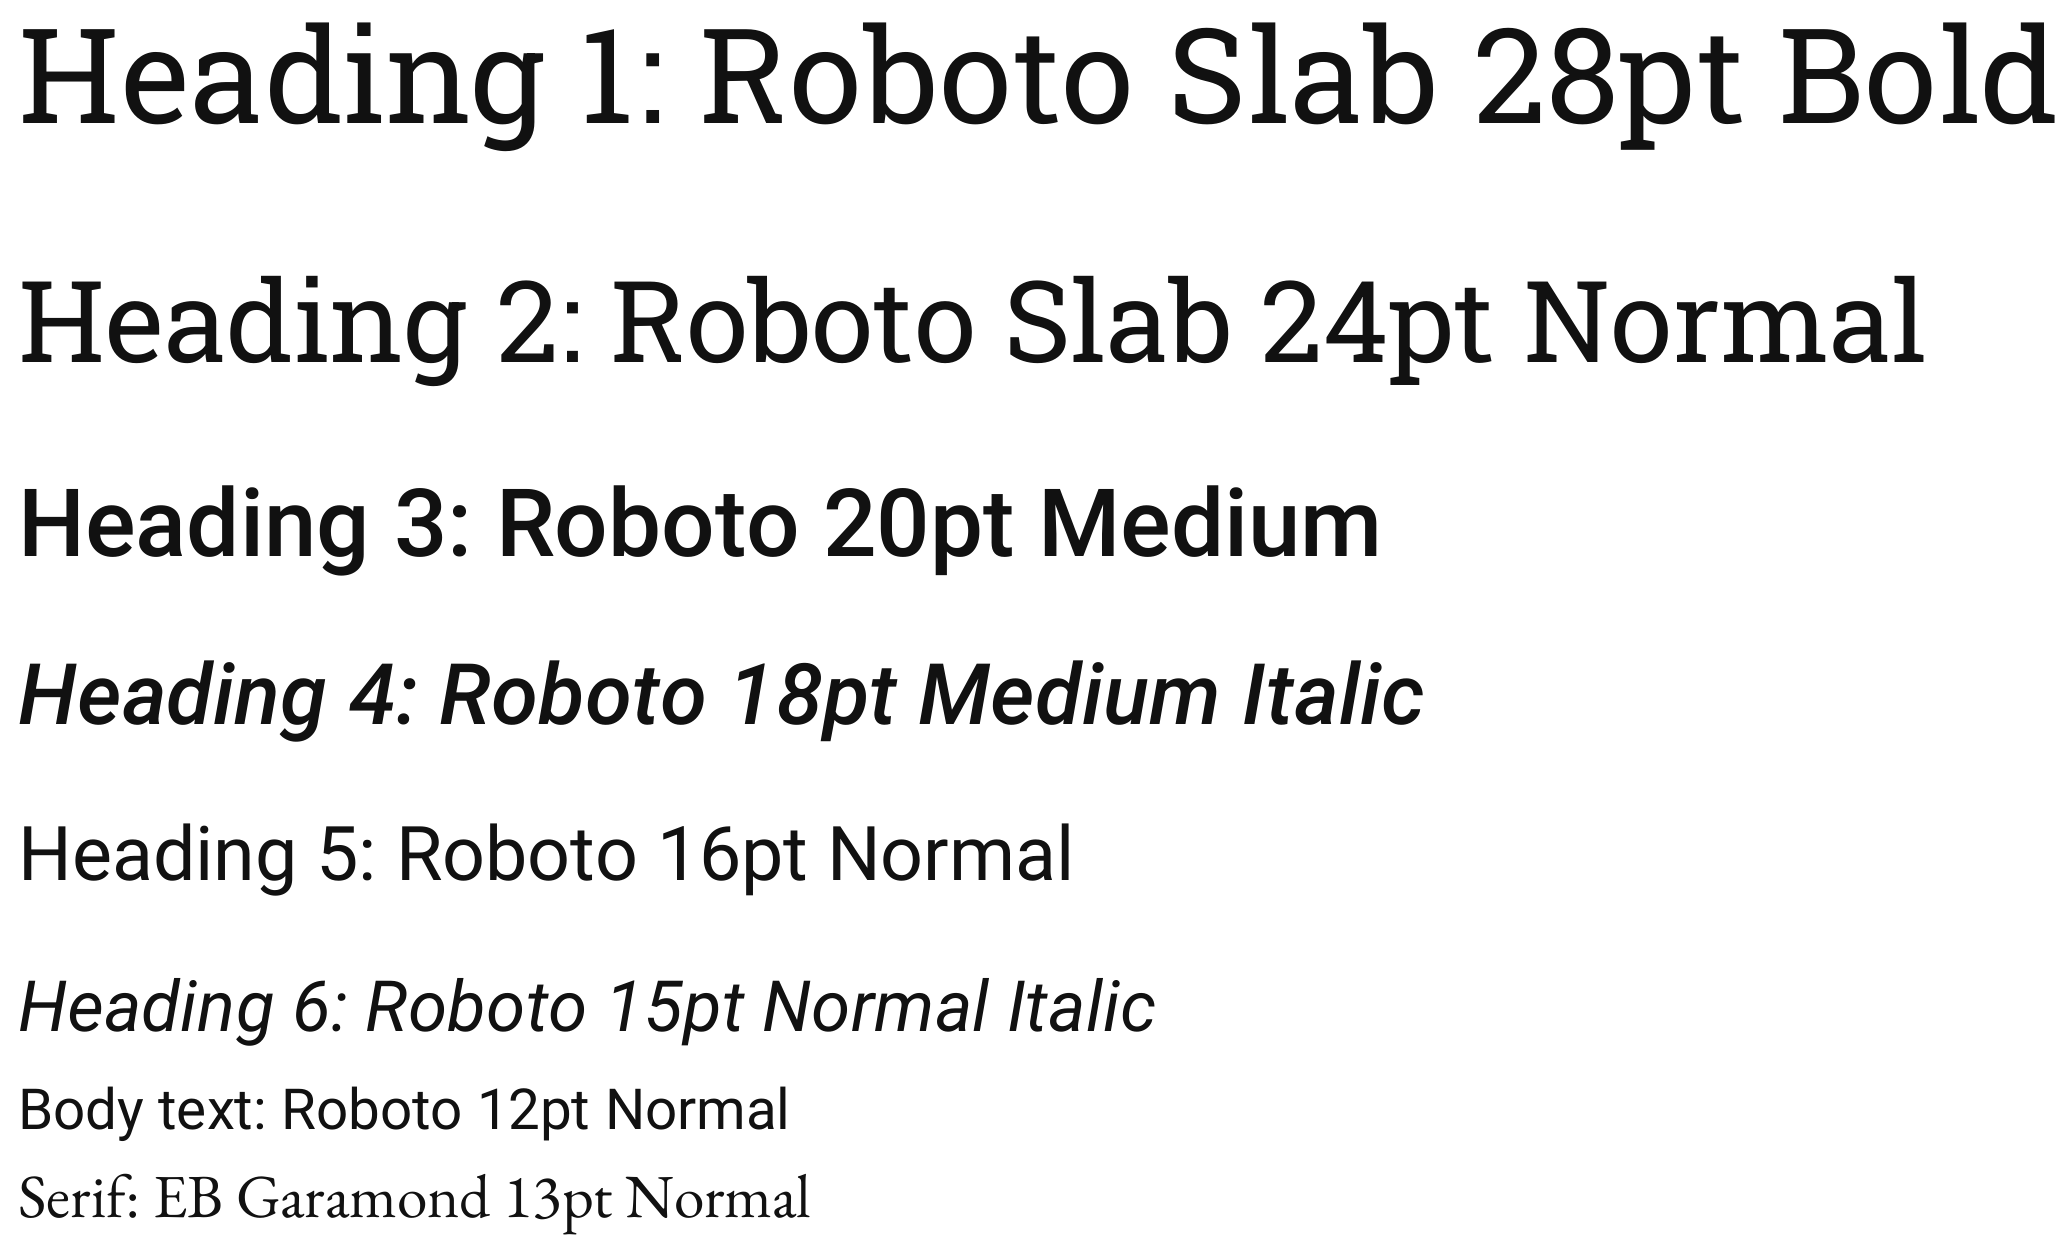
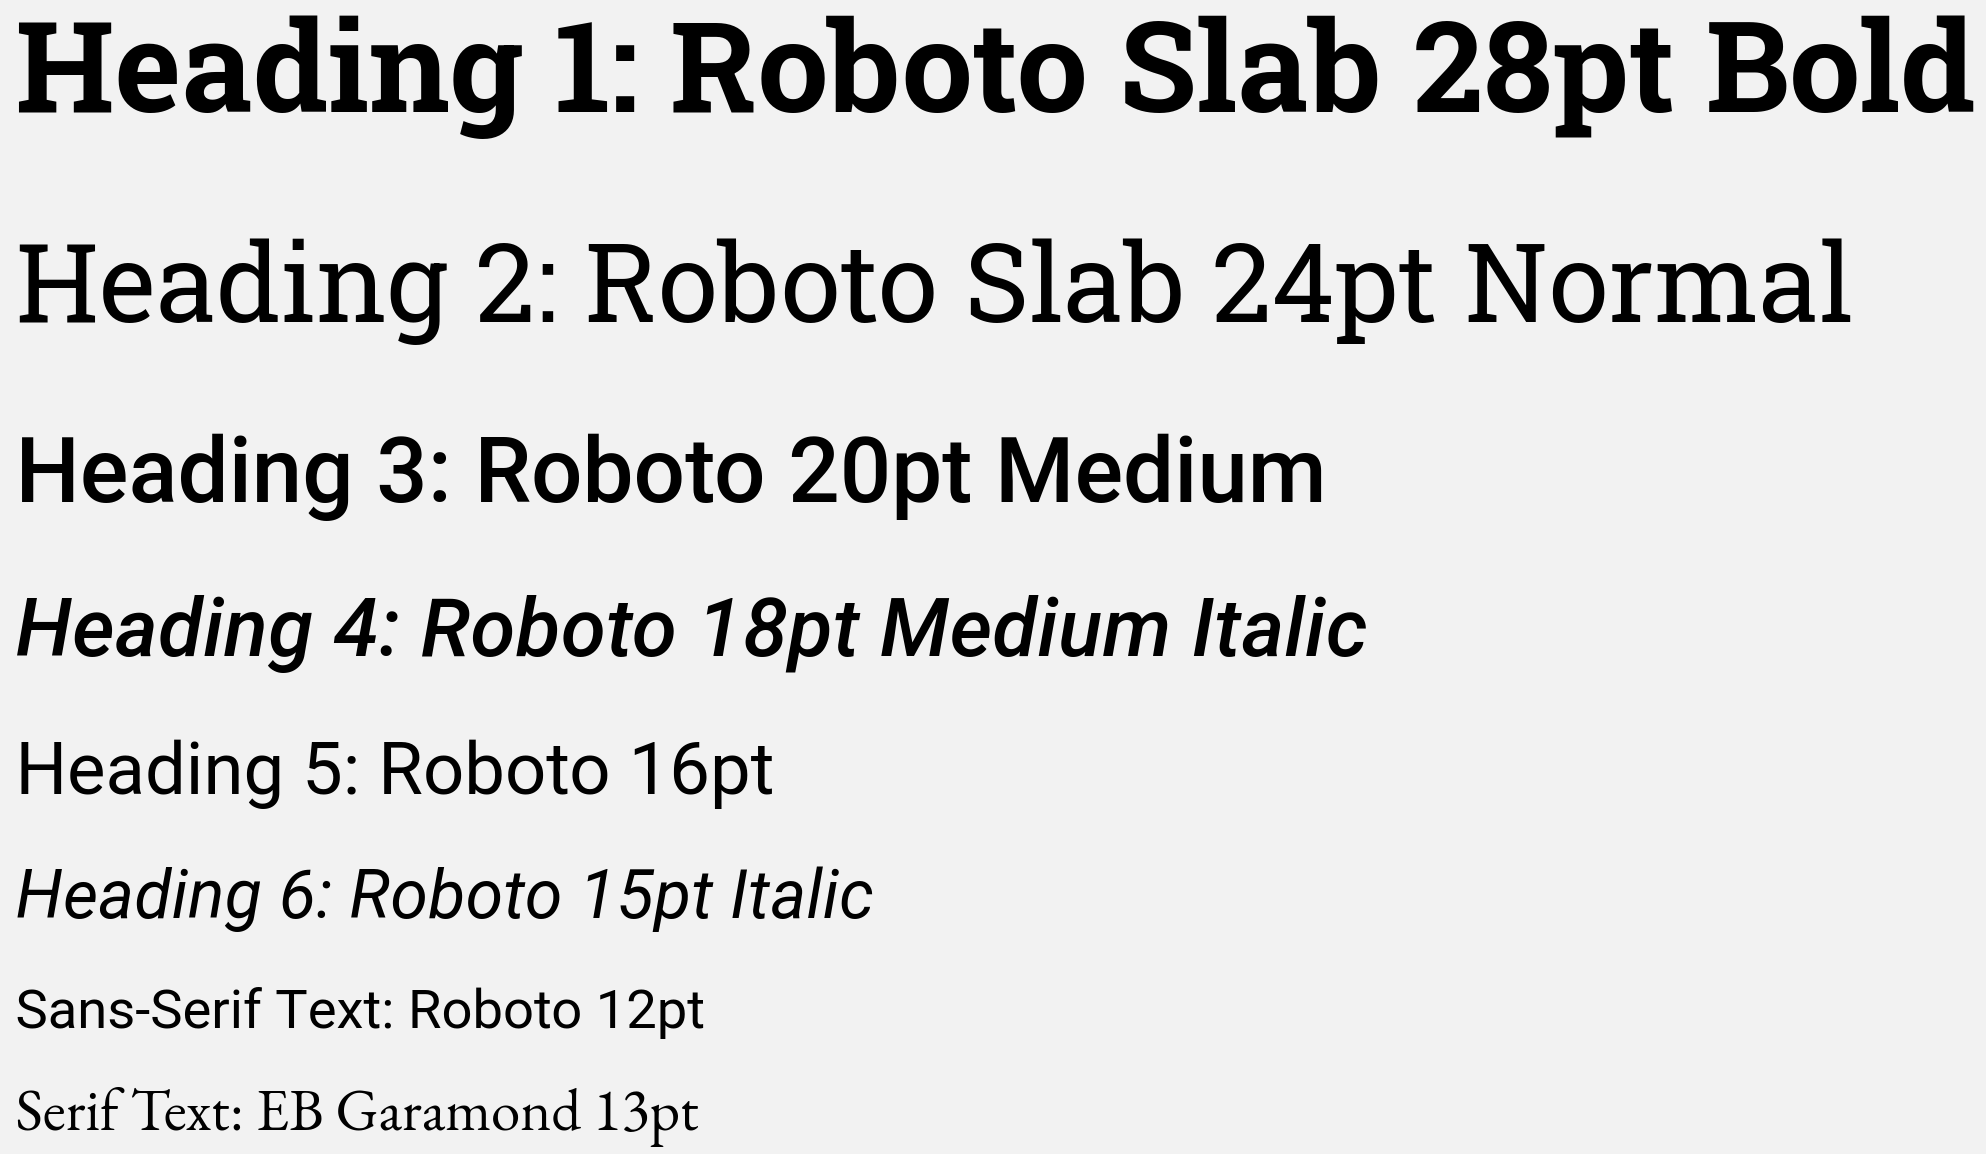
yay github pages site

diff --git a/styles.css b/styles.css
@@ -1,0 +1,129 @@
+@import url('https://fonts.googleapis.com/css?family=Roboto+Mono:500|Roboto+Slab:400,700|Roboto:400,400i,500,500i');
+
+/* overall */
+html {
+    height: 100%;
+}
+
+body {
+    font-family: 'Roboto', Helvetica, sans-serif;
+    font-size: 12pt;
+    background-color: #f2f2f2;
+    color: #121212;
+    height: 100%;
+    margin: 0;
+    text-align: center;
+}
+
+h1 {
+    font-family: 'Roboto Slab', Helvetica, sans-serif;
+    font-size: 28pt;
+    font-weight: 800;
+}
+
+h2 {
+    font-family: 'Roboto Slab', Helvetica, sans-serif;
+    font-size: 24pt;
+    font-weight: 400;
+}
+
+h3 {
+    font-family: 'Roboto', Helvetica, sans-serif;
+    font-size: 20pt;
+    font-weight: 500;
+}
+
+h4 {
+    font-family: 'Roboto', Helvetica, sans-serif;
+    font-size: 18pt;
+    font-weight: 500;
+    font-style: italic;
+    margin: 0;
+}
+
+h5 {
+    font-family: 'Roboto', Helvetica, sans-serif;
+    font-size: 15pt;
+    font-weight: 400;
+}
+
+h6 {
+    font-family: 'Roboto', Helvetica, sans-serif;
+    font-size: 15pt;
+    font-weight: 400;
+    font-style: italic;
+}
+
+img {
+    max-width: 80%;
+}
+
+#type {
+    width: 50%;
+}
+
+table {
+    border: 0;
+    border-spacing: 10px;
+    text-align: center;
+    margin-left: auto;
+    margin-right: auto;
+}
+
+#colours td {
+    padding: 15px;
+}
+
+ul {
+    list-style-type: none;
+    margin: 0;
+    padding: 0;
+}
+
+/* logo */
+#logo-container {
+    text-align: center;
+    padding-top: 2%;
+    margin-left: auto;
+    margin-right: auto;
+}
+
+#logo {
+    width: 20%;
+    max-width: 256px;
+}
+
+.container {
+    padding: 2%;
+}
+
+/* link */
+a:link {
+    color: #3d69de;
+    text-decoration: none;
+}
+
+a:visited {
+    color: #7415e3;
+    text-decoration: none;
+}
+
+a:hover, a:visited:hover {
+    text-decoration: underline;
+}
+
+a:active {
+    text-decoration: underline;
+}
+
+/* responsivity */
+@media only screen and (max-width: 768px) {
+    #logo {
+        width: auto;
+        height: 128px;
+    }
+
+    #type {
+        width: 80%;
+    }
+}

diff --git a/_layouts/default.html b/_layouts/default.html
@@ -1,0 +1,28 @@
+<!DOCTYPE html>
+<html lang="en">
+    <head>
+        <meta charset="utf-8" />
+        <meta content="width=device-width, initial-scale=1" name="viewport" />
+
+        <title>{{ site.title }}</title>
+
+        <link rel="stylesheet" href="styles.css" type="text/css">
+
+        <link rel="shortcut icon" type="image/x-icon" href="favicon/favicon.ico">
+        <link rel="apple-touch-icon" sizes="180x180" href="favicon/apple-touch-icon.png">
+        <link rel="icon" type="image/png" sizes="32x32" href="favicon/favicon-32x32.png">
+        <link rel="icon" type="image/png" sizes="16x16" href="favicon/favicon-16x16.png">
+        <link rel="manifest" href="favicon/site.webmanifest">
+    </head>
+    <body>
+        <div id="logo-container">
+            <a href="{{ site.home_url }}">
+                <img id="logo" src="{{ site.logo_url }}" alt="Logo">
+            </a>
+        </div>
+
+        <div class="container">
+            {{ content }}
+        </div>
+    </body>
+</html>

diff --git a/index.md b/index.md
@@ -1,81 +1,77 @@
+---
+permalink: /
+layout: default
+---
+
 # YARC Branding
 
 ## Typography
 
-![Type](img/type.png)
+<img id="type" src="img/type.png" alt="typography">
 
 ## Colours
 
 Use these colours whenever possible.
 
-<table>
+<table id="colours">
     <tr>
-        <td>
-            <b>Primary</b> <br>
+        <td style="background: url(img/colours/primary.png); color: #f2f2f2;">
+            <h5>Primary</h5>
             #451EA6 <br>
             rgb(69, 30, 166) <br>
-            cmyk(58, 82, 0, 35) <br>
-            <img src="img/colours/primary.png">
+            cmyk(58, 82, 0, 35)
         </td>
-        <td>
-            <b>Light Primary</b> <br>
+        <td style="background: url(img/colours/lightprimary.png); color: #f2f2f2;">
+            <h5>Light Primary</h5>
             #7415E3 <br>
             rgb(116, 21, 227) <br>
-            cmyk(49, 91, 0, 11) <br>
-            <img src="img/colours/lightprimary.png">
+            cmyk(49, 91, 0, 11)
         </td>
-        <td>
-            <b>Secondary</b> <br>
+        <td style="background: url(img/colours/secondary.png); color: #f2f2f2;">
+            <h5>Secondary</h5>
             #3D69DE <br>
             rgb(61, 105, 222) <br>
-            cmyk(73, 53, 0, 13) <br>
-            <img src="img/colours/secondary.png">
+            cmyk(73, 53, 0, 13)
         </td>
     </tr>
     <tr>
-        <td>
-            <b>Accent 1</b> <br>
+        <td style="background: url(img/colours/accent1.png); color: #121212;">
+            <h5>Accent 1</h5>
             #32B1EE <br>
             rgb(50, 200, 255) <br>
-            cmyk(80, 22, 0, 0) <br>
-            <img src="img/colours/accent1.png">
+            cmyk(80, 22, 0, 0)
         </td>
-        <td>
-            <b>Accent 2</b> <br>
+        <td style="background: url(img/colours/accent2.png); color: #f2f2f2;">
+            <h5>Accent 2</h5>
             #B5070A <br>
             rgb(181, 7, 10) <br>
-            cmyk(0, 96, 94, 29) <br>
-            <img src="img/colours/accent2.png">
+            cmyk(0, 96, 94, 29)
         </td>
-        <td>
-            <b>Accent 3</b> <br>
+        <td style="background: url(img/colours/accent3.png); color: #121212;">
+            <h5>Accent 3</h5>
             #3CB78F <br>
             rgb(155, 240, 176) <br>
-            cmyk(35, 0, 27, 6) <br>
-            <img src="img/colours/accent3.png">
+            cmyk(35, 0, 27, 6)
         </td>
     </tr>
     <tr>
-        <td>
-            <b>White</b> <br>
+        <td style="background: url(img/colours/white.png); color: #121212;">
+            <h5>White</h5>
             #F2F2F2 <br>
             rgb(242, 242, 242) <br>
-            cmyk(0, 0, 0, 0) <br>
-            <img src="img/colours/white.png">
+            cmyk(0, 0, 0, 0)
         </td>
-        <td>
-            <b>Grey</b> <br>
+        <td style="background: url(img/colours/grey.png); color: #f2f2f2;">
+            <h5>Grey</h5>
             #737373 <br>
             rgb(115, 115, 115) <br>
-            cmyk(0, 0, 0, 55) <br>
-            <img src="img/colours/grey.png">
+            cmyk(0, 0, 0, 55)
         </td>
-        <td>
-            <b>Black</b> <br>
+        <td style="background: url(img/colours/black.png); color: #f2f2f2;">
+            <h5>Black</h5>
             #121212 <br>
             rgb(18, 18, 18) <br>
-            cmyk(0, 0, 0, 100) <br>
-            <img src="img/colours/black.png">
+            cmyk(0, 0, 0, 100)
         </td>
     </tr>
 </table>
@@ -86,34 +82,45 @@ YARC members are free to use the YARC logos under the [Creative Commons Attribut
 
 ### Large
 
-**Download:** [SVG](svg/yarc-logo.svg) [PNG](png/yarc-logo.png)
-
 Use this when the "WY4RC" is large enough to be easily read.
+
+#### Download
+* [SVG](svg/yarc-logo.svg)
+* [PNG](png/yarc-logo.png)
 
 ![Large Logo](img/logos/yarc-logo.png)
 
 ### Promotional
 
-**Download:** [SVG](svg/yarc-logo-promo.svg) [PNG](png/yarc-logo-promo.png)
-
 The large logo can also include the YARC website URL.
+
+#### Download
+* [SVG](svg/yarc-logo-promo.svg)
+* [PNG](png/yarc-logo-promo.png)
 
 ![Promotional Logo](img/logos/yarc-logo-promo.png)
 
 ### Small
 
-**Download:** [SVG](svg/yarc-logo-small.svg) [PNG](png/yarc-logo-sm.png)
-
 Use this when the "WY4RC" in the large logo is not large enough to be easily read.
+
+#### Download
+* [SVG](svg/yarc-logo-small.svg) 
+* [PNG](png/yarc-logo-sm.png)
 
 ![Small Logo](img/logos/yarc-logo-sm.png)
 
 ### Monochrome
 
-**Download:** [SVG](svg/yarc-logo-bw.svg) [PNG (black on white)](png/yarc-logo-bw.png) [PNG (black on transparent)](png/yarc-logo-b-nobg.png) [PNG (white on black)](png/yarc-logo-wb.png) [PNG (white on transparent)](png/yarc-logo-w-nobg.png)
-
 Use this in simple and monochrome contexts (e.g. print). It should *only* be used in the official black and white colours digitally. In print, use full black and full white. Versions with and without
 the background colour are available.
+
+#### Download
+* [SVG](svg/yarc-logo-bw.svg)
+* [PNG (black on white)](png/yarc-logo-bw.png)
+* [PNG (black on transparent)](png/yarc-logo-b-nobg.png)
+* [PNG (white on black)](png/yarc-logo-wb.png)
+* [PNG (white on transparent)](png/yarc-logo-w-nobg.png)
 
 <table>
     <tr>
